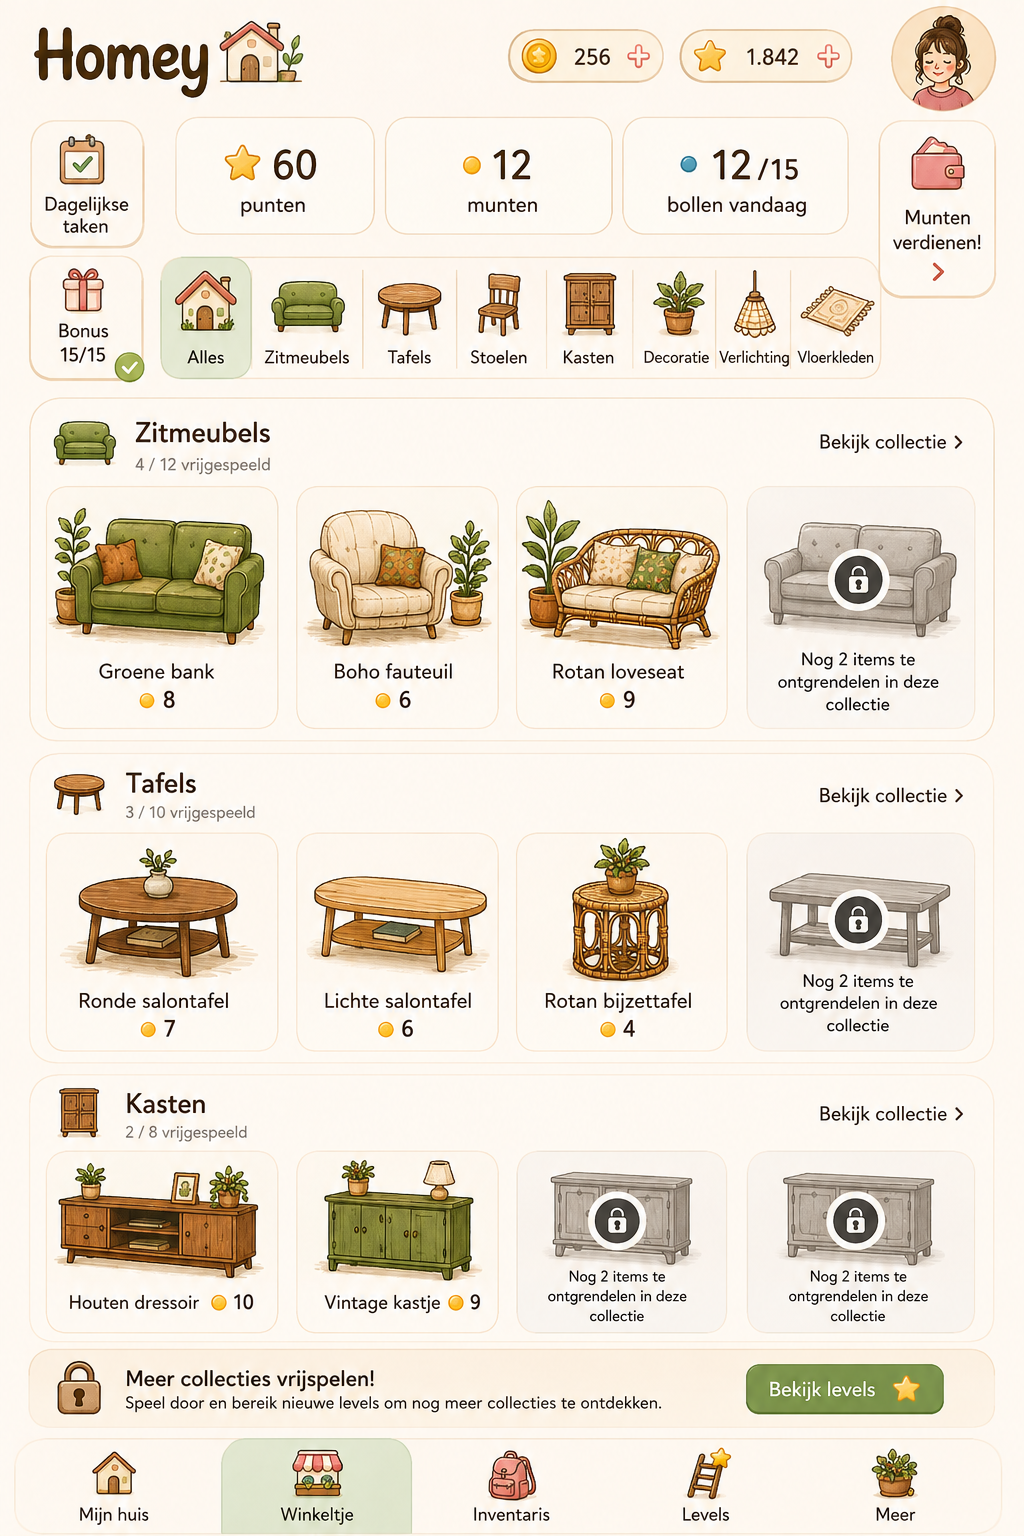
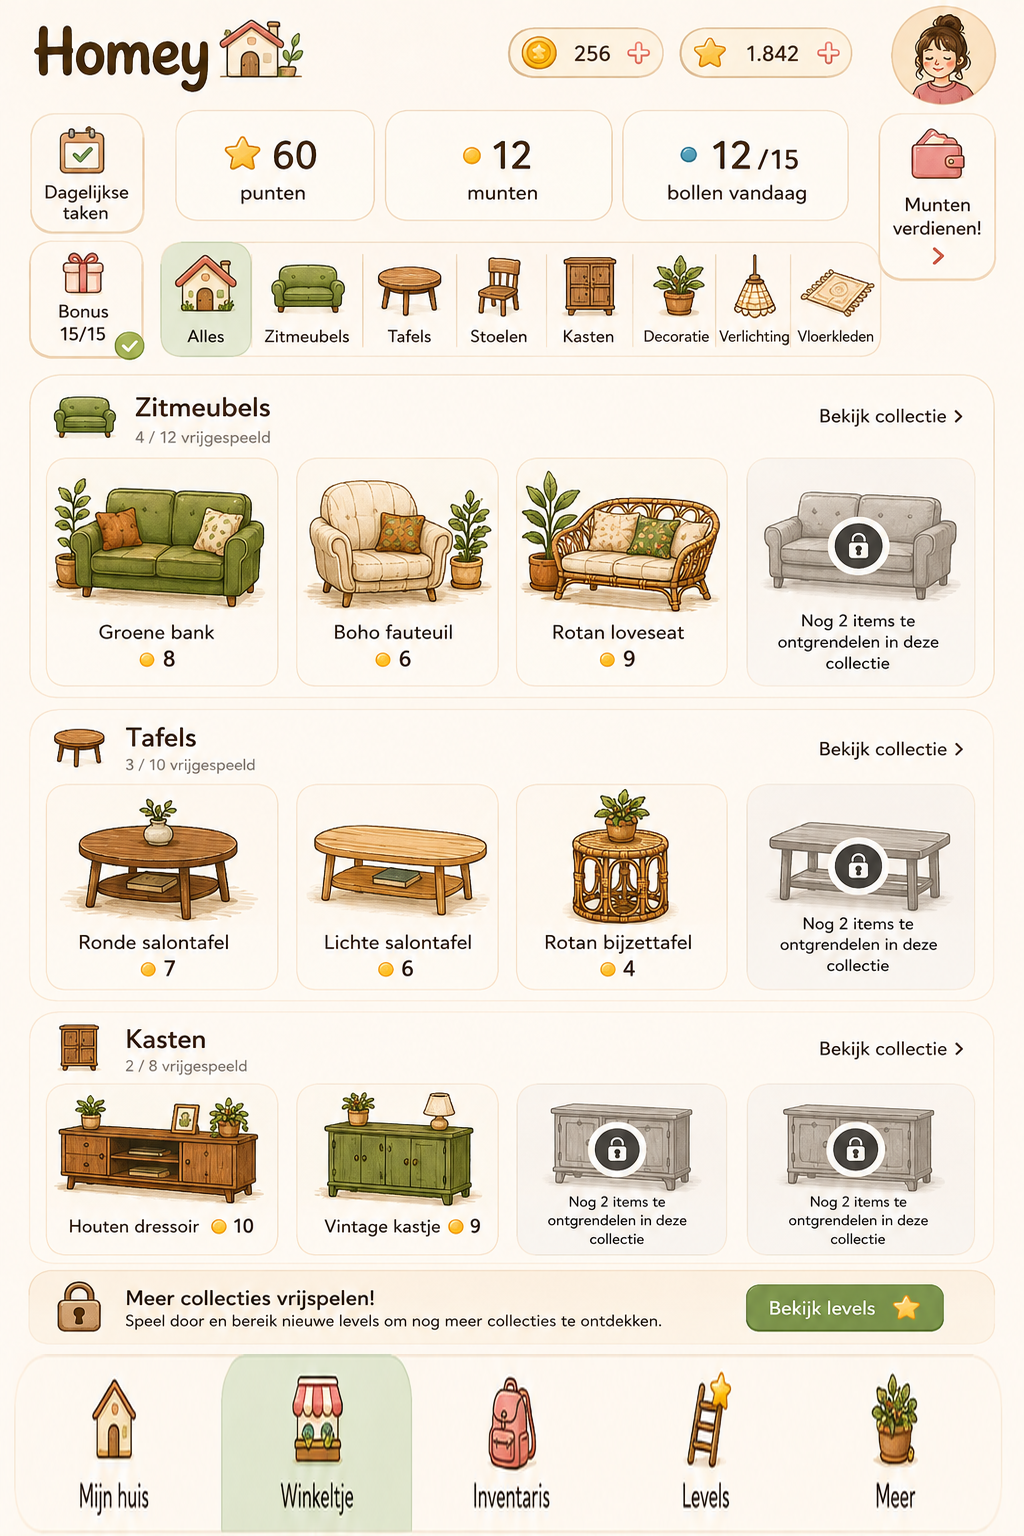
Add files via upload

diff --git a/style.css b/style.css
@@ -3,6 +3,6 @@
 .bedroom{left:28%;top:25%;width:29%;height:15%}.bathroom{left:57%;top:25%;width:29%;height:15%}.living{left:25%;top:40%;width:31%;height:15%}.kitchen{left:57%;top:40%;width:30%;height:15%}.hall{left:25%;top:55%;width:31%;height:14%}.laundry{left:57%;top:55%;width:30%;height:14%}.terrace{left:29%;top:69%;width:58%;height:15%}
 .nav{top:89.2%;height:8.7%;width:18%}.nav-home{left:4%}.nav-shop{left:22%}.nav-inventory{left:41%}.nav-levels{left:60%}.nav-more{left:79%}
 /* shop image is 1024x1536 */
-.shop-nav{top:94.2%;height:5.8%;width:20%}.shop-home{left:0}.shop-shop{left:20%}.shop-inventory{left:40%}.shop-levels{left:60%}.shop-more{left:80%}
+.shop-nav{top:88.15%;height:11.85%;width:20%}.shop-home{left:0}.shop-shop{left:20%}.shop-inventory{left:40%}.shop-levels{left:60%}.shop-more{left:80%}
 .buy{height:15.8%;width:22.8%}.buy-green{left:4.5%;top:31.8%}.buy-chair{left:28.8%;top:31.8%}.buy-love{left:52.2%;top:31.8%}.buy-round{left:4.5%;top:49.1%}.buy-light{left:28.8%;top:49.1%}.buy-side{left:52.2%;top:49.1%}.buy-dresser{left:4.5%;top:66.3%}.buy-vintage{left:28.8%;top:66.3%}
 .home-live{position:absolute;top:8.3%;left:28%;right:16%;display:grid;grid-template-columns:1fr 1fr 1fr;text-align:center;pointer-events:none;opacity:0}.panel{position:fixed;inset:0;background:#0005;display:flex;align-items:flex-end;justify-content:center;z-index:20}.panel[hidden]{display:none}.panel-card{width:min(590px,100%);background:#fff9f1;border-radius:28px 28px 0 0;padding:24px 20px 30px;max-height:75vh;overflow:auto;position:relative}.close{position:absolute;right:18px;top:13px;border:0;background:#f1dfd2;border-radius:50%;width:38px;height:38px;font-size:28px}.panel-icon{font-size:38px}.panel-card h2{margin:4px 0 3px}.panel-card p{margin-top:0;color:#74665b}.task-row{display:flex;width:100%;gap:12px;align-items:center;border:1px solid #ead8c8;background:#fffdf9;border-radius:16px;margin:10px 0;padding:13px;text-align:left;font-size:16px}.task-row.done{background:#dceacf;border-color:#aac88d}.task-check{font-size:24px}.task-sub{display:block;font-size:12px;color:#89796e;margin-top:4px}.simple-screen{min-height:100vh;padding:30px 20px;background:#f8f0e5}.simple-back{border:0;border-radius:50%;width:44px;height:44px;background:#efc1b4;font-size:30px}.simple-card{margin-top:60px;background:#fffaf3;border:1px solid #ead8c8;border-radius:24px;padding:35px 24px;text-align:center}.simple-card>div{font-size:48px}.toast{position:fixed;left:50%;bottom:90px;transform:translateX(-50%) translateY(20px);background:#3f4932;color:white;padding:12px 18px;border-radius:999px;z-index:30;opacity:0;transition:.2s;white-space:nowrap;max-width:90%;overflow:hidden;text-overflow:ellipsis}.toast.show{opacity:1;transform:translateX(-50%) translateY(0)}
